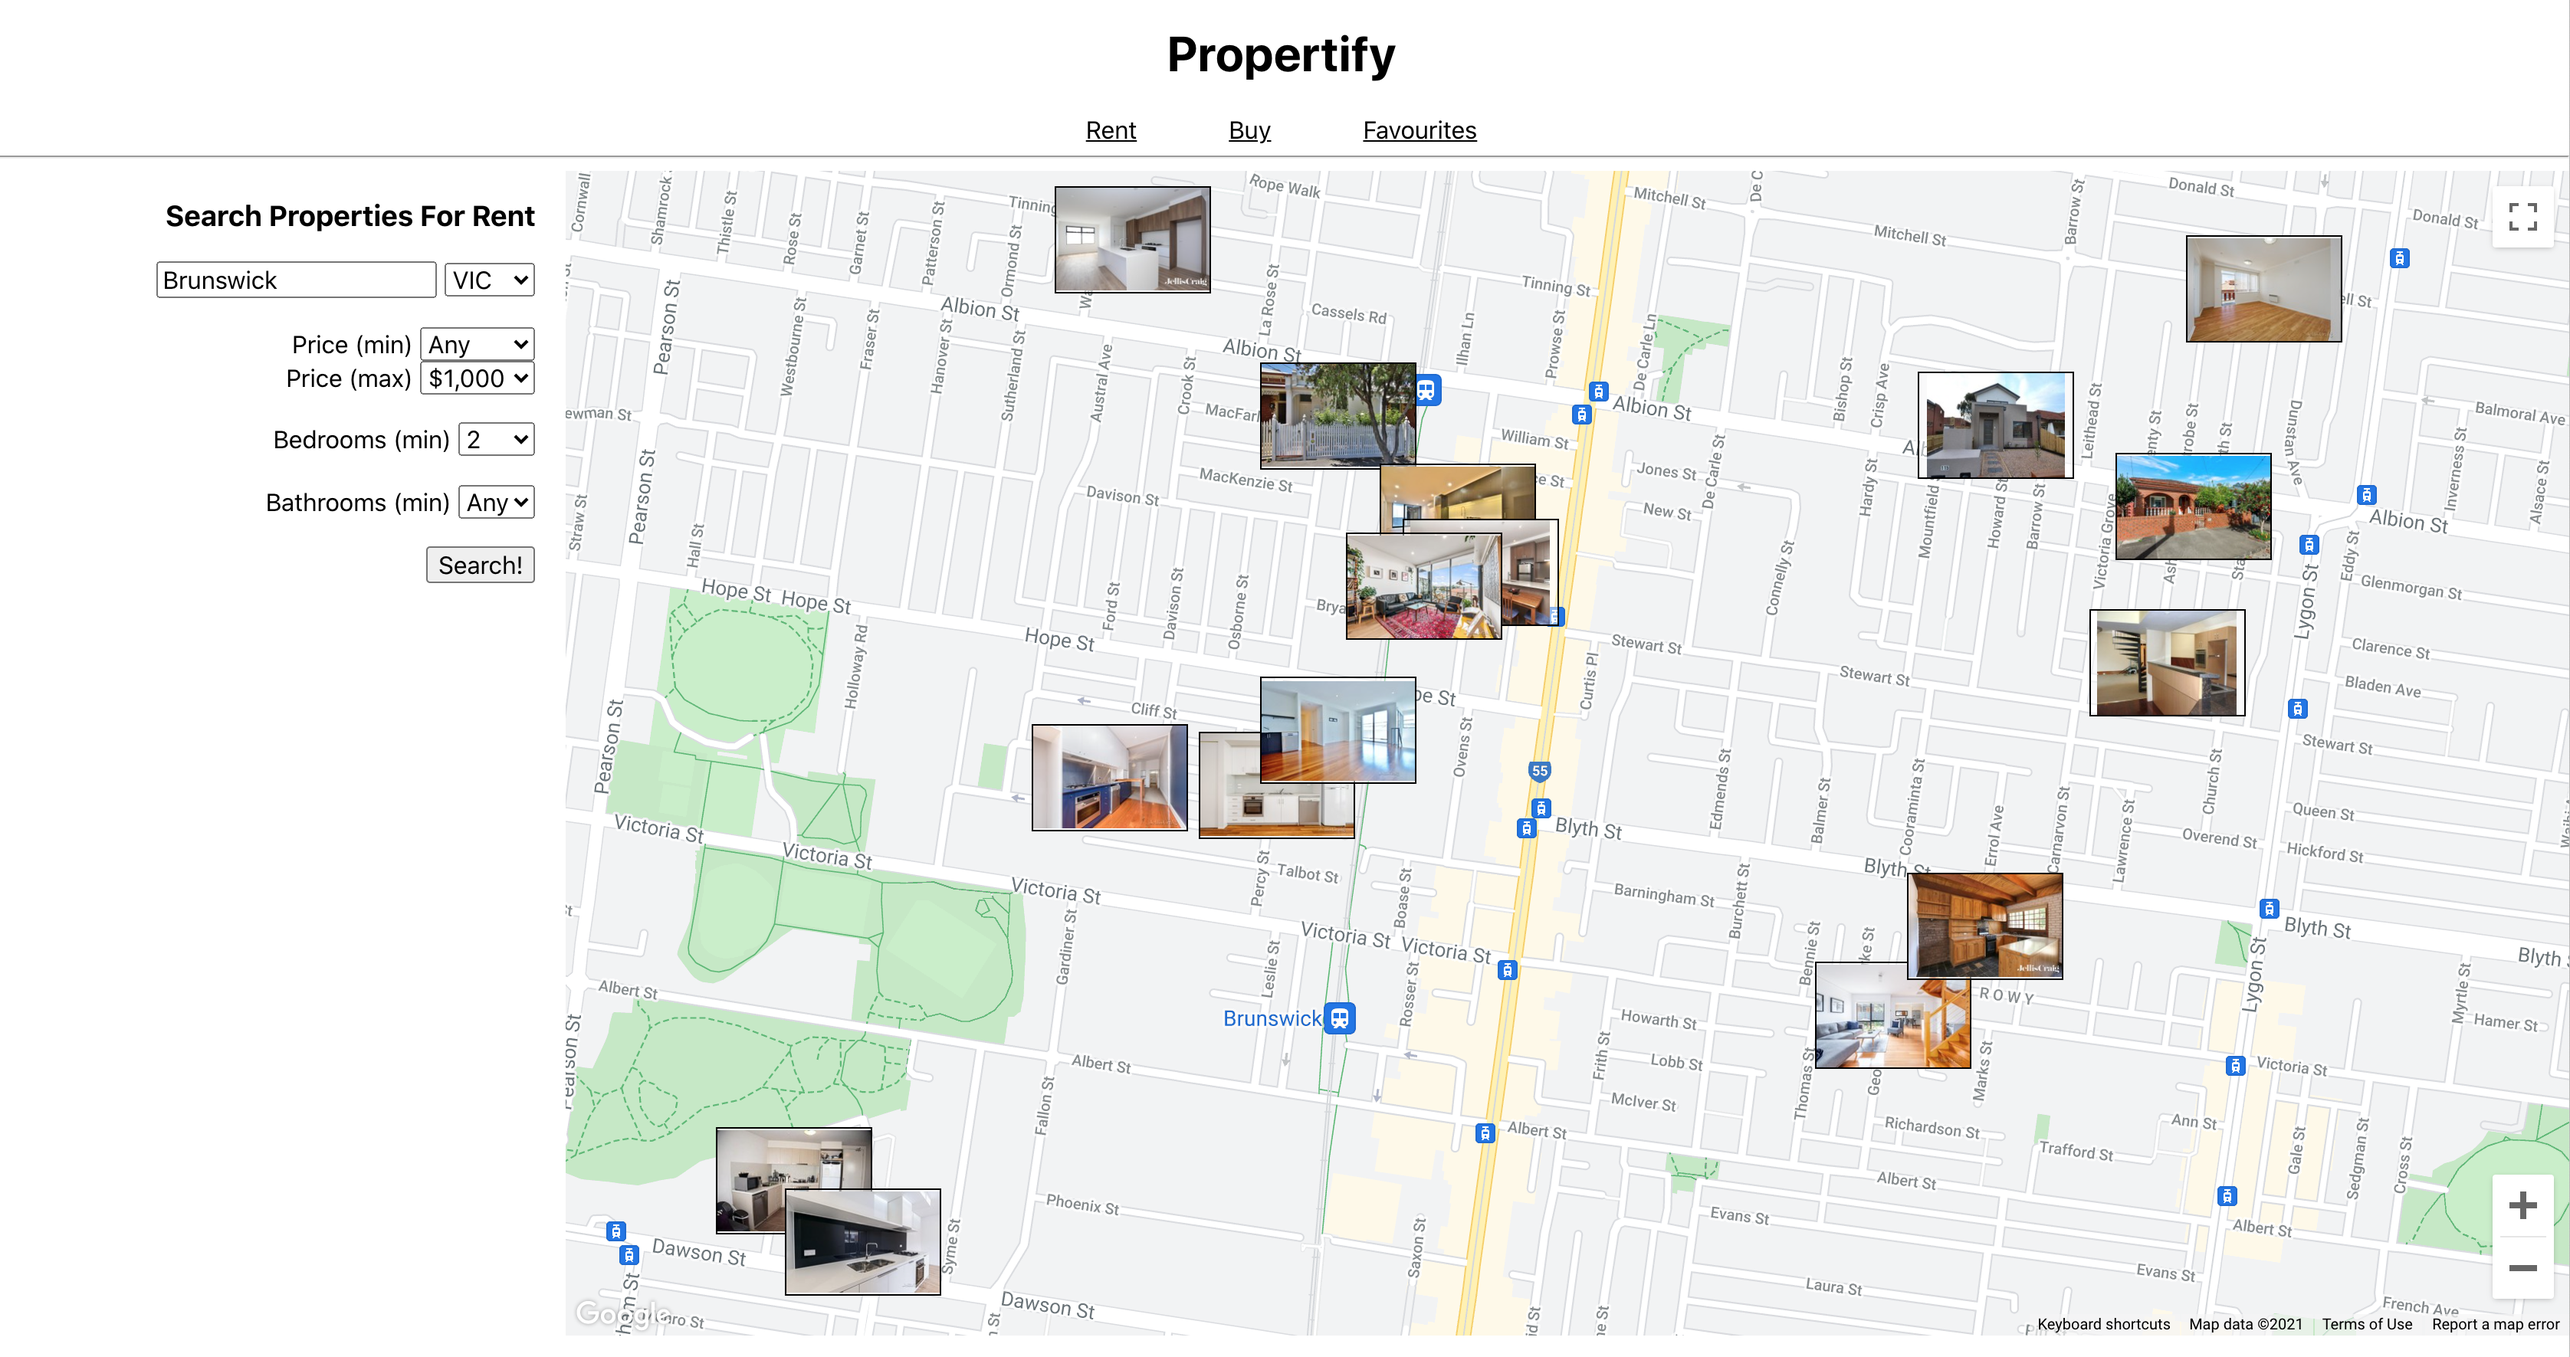
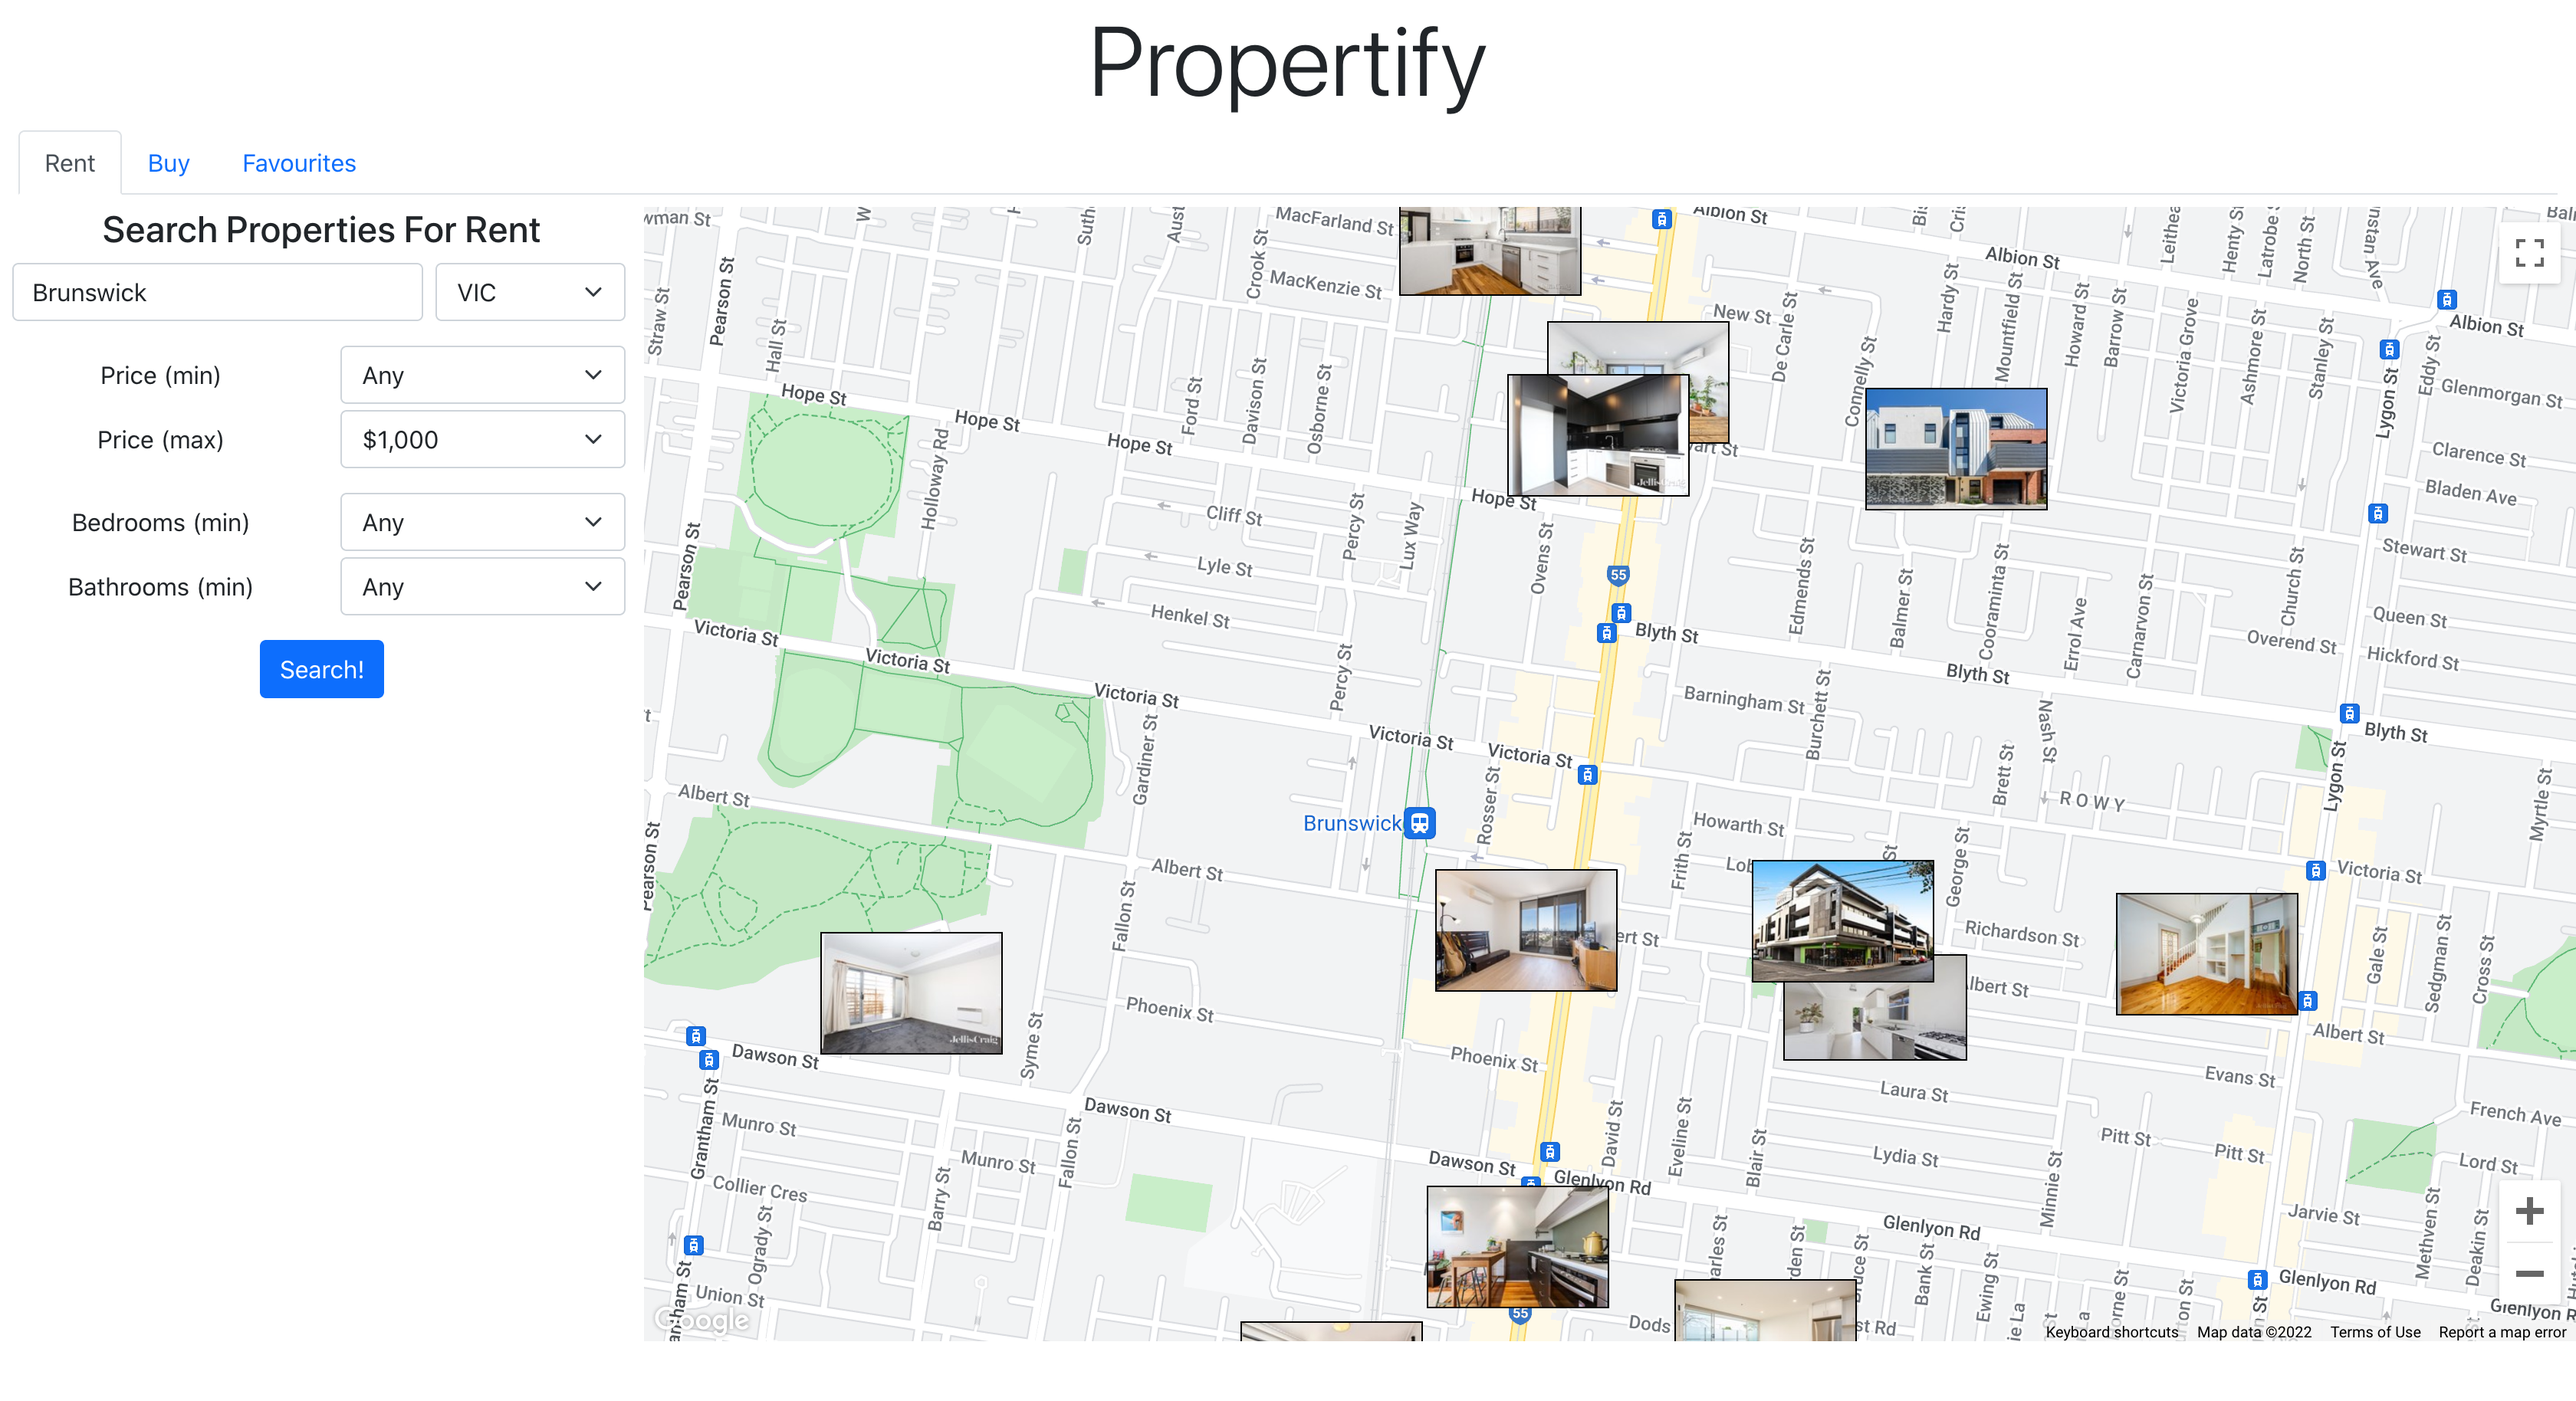
Update README with v2 screenshot

diff --git a/README.md b/README.md
@@ -9,7 +9,10 @@ A React front-end for exploring residential listing data from Domain.com.au with
 Use the Rent or Buy options with the provided search parameters to search a suburb for property listings, a selection of which will then be displayed on the map.
 You can click on the previews to be taken to an information page, where you can add or remove the listing from a list of favourites kept in localStorage.
 
-## Components used
-react-bootstrap
+## Technologies used
 
-react-router-bootstrap
+- react-router-dom v5
+- react-bootstrap
+- react-router-bootstrap
+- axios
+- google-map-react
